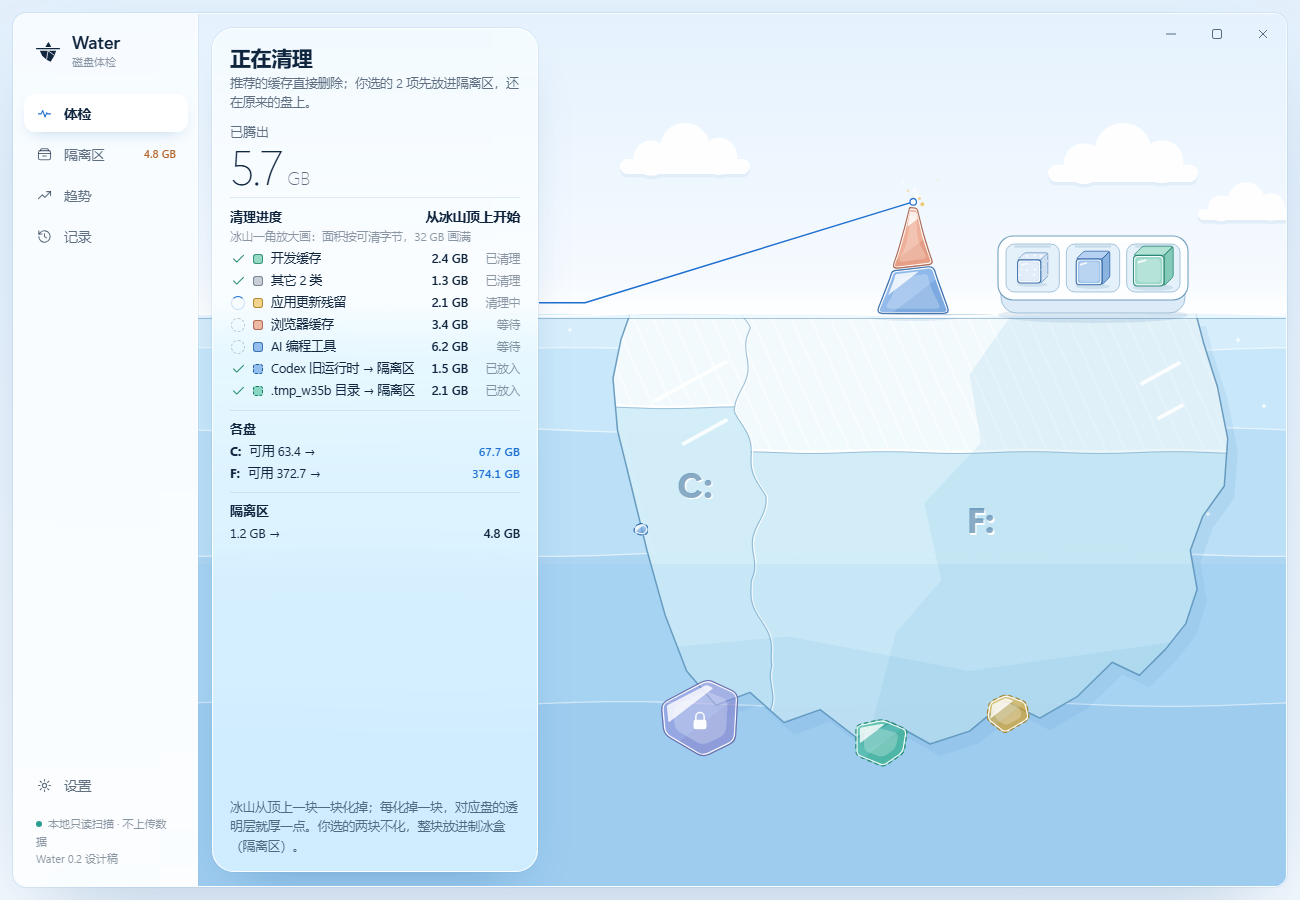
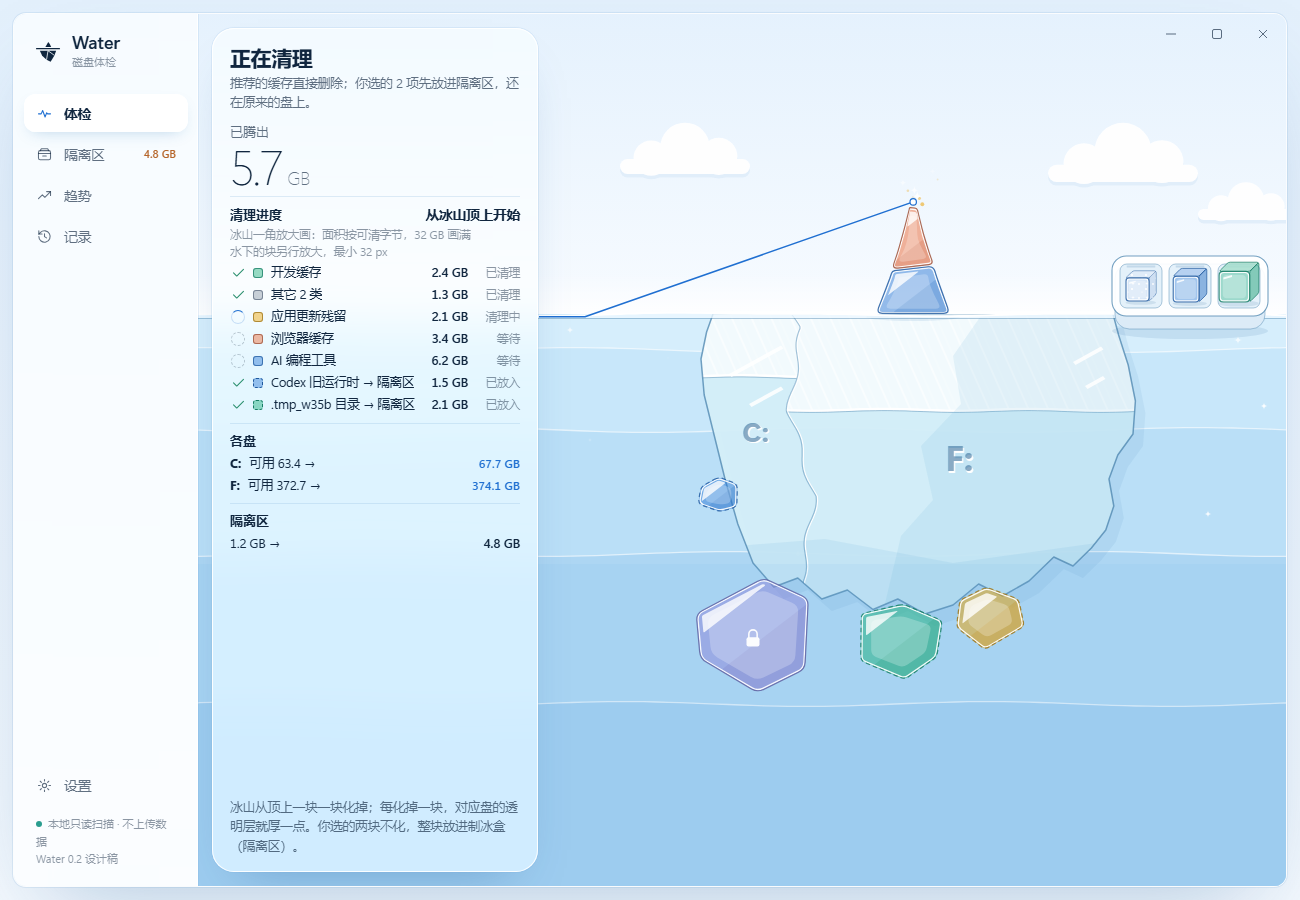
Shrink the underwater body and enlarge its blocks (prototype draft 5)
User asks: blocks below the waterline get a minimum size and are
enlarged; the default underwater iceberg is too big. Underwater blocks
now use side = clamp(sqrt(GB x 1100), 32, 96) px; the body is about
400 x 300 px (was 566 x 430), centred under the tip; a second muted
panel line explains the block scale.

Kept as history only: the user's next feedback (blocks must assemble
the iceberg with matching contours, labels appear on pieces as they
grow, real 2D anime style without mirror-like shine) leads to a
rebuilt picture layer in a new file.

diff --git a/docs/design/water-ui-v2/viz-skeuo.html b/docs/design/water-ui-v2/viz-skeuo.html
@@ -31,7 +31,7 @@
 .panel .hero small{font-size:19px;margin-left:6px}
 .ptop{display:flex;align-items:center;justify-content:space-between;margin-bottom:8px}
 .ptop .link{font-size:12.5px}
-.psec{display:flex;align-items:baseline;gap:8px;font-weight:600;font-size:13px;margin:8px 0 2px;padding-top:8px;border-top:1px solid var(--w-hairline);white-space:nowrap}
+.psec{display:flex;align-items:baseline;gap:8px;font-weight:600;font-size:13px;margin:7px 0 2px;padding-top:7px;border-top:1px solid var(--w-hairline);white-space:nowrap}
 .psec .pr{margin-left:auto;font-family:var(--w-font-display);font-size:13.5px;font-weight:600}
 .psec small{font-weight:400;color:var(--w-ink-3);font-size:11.5px;font-family:var(--w-font)}
 .prow{display:flex;align-items:center;gap:8px;min-height:22px;font-size:12.5px;border-radius:8px;padding:0 8px;margin:0 -8px;white-space:nowrap;transition:background .15s}
@@ -52,7 +52,7 @@
 .mono{font-family:var(--w-font-mono);font-size:12px}
 .pq{display:flex;align-items:center;gap:8px;font-size:12.5px;color:var(--w-ink-2);padding:7px 10px;border-radius:12px;background:rgba(255,255,255,.75);box-shadow:inset 0 0 0 1px rgba(181,101,42,.2);margin-bottom:14px;white-space:nowrap}
 .pq svg.i{color:var(--w-growth);width:15px;height:15px}.pq b{color:var(--w-ink)}.pq .link{margin-left:auto;font-size:12.5px}
-.drow{padding:2px 8px;margin:0 -8px;border-radius:9px;font-size:12.5px;transition:background .15s}
+.drow{padding:1px 8px;margin:0 -8px;border-radius:9px;font-size:12.5px;transition:background .15s}
 .drow .l1{display:flex;gap:7px;align-items:center}
 .drow .l1 i{width:7px;height:7px;border-radius:50%;background:var(--w-level-confirm);flex:none}
 .drow .l1 .nm{font-weight:600;overflow:hidden;text-overflow:ellipsis;white-space:nowrap;flex:1;min-width:0}
@@ -75,7 +75,7 @@
 .qrow .bt .link{font-size:12.5px}
 .qrow .dn{font-size:12px;color:var(--w-ink-2);margin-top:6px}
 .qrow .dn:empty{display:none}
-.pnote{font-size:11.5px;color:var(--w-ink-3);line-height:1.4;margin:0 0 3px;white-space:nowrap}
+.pnote{font-size:11.5px;color:var(--w-ink-3);line-height:1.35;margin:0 0 2px;white-space:nowrap}
 .pfoot{margin-top:auto;padding-top:12px}
 .pbtn{width:100%}
 .legend.wrap{flex-wrap:wrap;gap:6px 14px;margin-top:4px}
@@ -571,7 +571,7 @@ function show(id,o){o=o||{};const d=SC[id];if(!d)return;
 
 /* ---------- layout: every word lives in the panel on the left, the picture gets the rest ---------- */
 const PX0=14,PY0=14,PW0=326,PH0=844,PE=PX0+PW0;
-const GEO={x0:432,x1:998,yw:300,D:430};
+const GEO={x0:515,x1:915,yw:300,D:300};
 const fmtCap=v=>v>=1000?v.toFixed(1):String(v);
 const catOf=id=>CAT.find(c=>c.id===id);
 function panel(el){const p=H('div','panel ab',el);at(p,PX0,PY0,PW0,PH0);return p;}
@@ -584,6 +584,7 @@ function pqbar(p){const q=H('div','pq',p);icon('i-vault',q);const s=H('span',nul
 function heroP(p,eb,val,unit){H('div','eyebrow pe',p,eb);const h=H('div','hero',p);const n=H('span',null,h,val);H('small',null,h,unit==null?'GB':unit);return n;}
 function setIc(r,mode){if(r._mode===mode)return;r._mode=mode;clear(r._ic);if(mode==='run')H('span','spin',r._ic);else if(mode==='ok')icon('i-check',r._ic,'okc');else H('span','wait',r._ic);}
 const NOTE='冰山一角放大画：面积按可清字节，32 GB 画满';
+const NOTE2='水下的块另行放大，最小 32 px';
 function stage(el,geo,keys){const svg=S('svg',{class:'stage',viewBox:'0 0 1088 872'},el);
  const M=makeBerg(geo,keys);const st={svg,M,geo,yw:geo.yw,cx:(geo.x0+geo.x1)/2};
  const world=S('g',null,svg);st.world=world;
@@ -608,16 +609,29 @@ function tipBands(gbOf,o){o=o||{};const out=[];(o.joined||[]).forEach(j=>{if(j.g
  CAT.forEach(b=>{const v=gbOf(b);if(v>.001)out.push({gb:v,c:b.c,id:b.id,off:!!(o.off&&o.off[b.id]),melt:o.melt?o.melt[b.id]:0,hot:o.hot===b.id});});return out;}
 function tipHover(sc,R,onClick){R.gTip.addEventListener('mouseover',e=>{const b=e.target.closest('[data-band]');sc.hot=b?b.dataset.band:null;});R.gTip.addEventListener('mouseleave',()=>{sc.hot=null;});if(onClick)R.gTip.addEventListener('click',e=>{const b=e.target.closest('[data-band]');if(b)onClick(b.dataset.band);});}
 /* where the whole blocks stick to the iceberg: protected under C, C's review items on its flank, F's under F */
-function placeBlocks(R){const M=R.M,yw=R.yw,rows=M.rows,out={};
+/* Underwater blocks have their own, larger scale: side = clamp(sqrt(GB × 1100 px²), 32, 96). */
+const UW_K=1100,UW_MIN=32,UW_MAX=96;
+const uwSide=gb=>clamp(Math.sqrt(gb*UW_K),UW_MIN,UW_MAX);
+/* Where the whole blocks stick to the iceberg: protected under C, C's review items on C's left flank,
+   F's review items as a cluster under F (spilling onto F's right flank if the underside is too short). */
+function placeBlocks(R){const M=R.M,yw=R.yw,rows=M.rows,out={},GAP=14;
  const bodyBottom=x=>{for(let j=rows.length-1;j>=0;j--){if(rows[j].sp.some(q=>x>=q[0]&&x<=q[1]))return yw+j;}return null;};
  const leftEdge=y=>{const r=rows[M.row(y)];return r.sp.length?r.sp[0][0]:R.geo.x0;};
+ const rightEdge=y=>{const r=rows[M.row(y)];return r.sp.length?r.sp[r.sp.length-1][1]:R.geo.x1;};
  const under=p=>{const xs=[];for(let x=R.geo.x0-40;x<=R.geo.x1+60;x+=2){const by=bodyBottom(x);if(by==null)continue;const r=p.rw[M.row(by-1)];if(r.w>0&&x>=r.l-1&&x<=r.r+1)xs.push(x);}return xs;};
- const hang=(id,key,fx,gb,seed,n)=>{const p=M.byKey[key];if(!p)return;const u=under(p);if(!u.length)return;const x=u[Math.round(clamp(fx)*(u.length-1))];const sh=shapeOf(id,seed,n),s=Math.sqrt(gb*K_TIP);
-  const top=Math.min.apply(null,sh.poly.map(q=>q[1]))*s,cy=bodyBottom(x)-7-top;out[id]={x,y:cy,gb,sh,poly:blockPoly(sh,x,cy,gb*K_TIP)};};
- const flank=(id,fy,gb,seed)=>{const y=yw+R.geo.D*fy,sh=shapeOf(id,seed),s=Math.sqrt(gb*K_TIP);const right=Math.max.apply(null,sh.poly.map(q=>q[0]))*s,cx=leftEdge(y)+6-right;out[id]={x:cx,y,gb,sh,poly:blockPoly(sh,cx,y,gb*K_TIP)};};
- hang('core','C',.55,PROTECTED,909,6);
- flank('codex',.3,1.5,77);flank('kimi',.5,.3,78);
- hang('avd','F',.24,4.2,71);hang('apk','F',.52,2.6,72);hang('w35b','F',.8,2.1,73);
+ const dims=(id,seed,gb,n)=>{const sh=shapeOf(id,seed,n),sd=uwSide(gb),A=sd*sd;const xs=sh.poly.map(q=>q[0]*sd),ys=sh.poly.map(q=>q[1]*sd);return{id,sh,gb,A,sd,minx:Math.min.apply(null,xs),maxx:Math.max.apply(null,xs),miny:Math.min.apply(null,ys),maxy:Math.max.apply(null,ys)};};
+ const put=(d,x,y)=>{out[d.id]={x,y,gb:d.gb,sd:d.sd,sh:d.sh,poly:blockPoly(d.sh,x,y,d.A),minx:x+d.minx,maxx:x+d.maxx};};
+ const hangAt=(d,x)=>{let deep=-1;for(let xx=x+d.minx*.6;xx<=x+d.maxx*.6;xx+=2){const b=bodyBottom(xx);if(b!=null)deep=Math.max(deep,b);}if(deep<0)deep=yw+R.geo.D;put(d,x,deep-8-d.miny);};
+ const flankL=(d,fy)=>{const y=yw+R.geo.D*fy;put(d,leftEdge(y)+8-d.maxx,y);};
+ const flankR=(d,fy)=>{const y=yw+R.geo.D*fy;put(d,rightEdge(y)-8-d.minx,y);};
+ /* C: the protected block hangs under the middle of C's underside */
+ const uc=under(M.byKey.C),core=dims('core',909,PROTECTED,6);
+ const ccx=uc.length?(uc[0]+uc[uc.length-1])/2:R.geo.x0+40;hangAt(core,ccx);
+ flankL(dims('codex',77,1.5),.36);flankL(dims('kimi',78,.3),.6);
+ /* F: a neat cluster along F's underside, right of the protected block */
+ const pf=M.byKey.F;if(pf){const uf=under(pf),list=[dims('avd',71,4.2),dims('apk',72,2.6),dims('w35b',73,2.1)];
+  const lo=Math.max(uf[0]+6,out.core.maxx+GAP),hi=uf[uf.length-1]+4;let tot=0;list.forEach((d,i)=>tot+=d.maxx-d.minx+(i?GAP:0));
+  let x=Math.max(lo,(lo+hi)/2-tot/2),fl=0;list.forEach(d=>{const w=d.maxx-d.minx;if(x+w>hi){flankR(d,[.3,.62][fl++]||.75);return;}hangAt(d,x-d.minx);x+=w+GAP;});}
  return out;}
 function drawCoreAt(g,B,o){const cg=drawBlock(g,B.poly,VIOLET,Object.assign({r:7,alpha:.5},o||{}));drawLock(cg,B.x,B.y+2,13,'rgba(255,255,255,.95)');return cg;}
 
@@ -663,7 +677,7 @@ scene('scan',{nav:'check',dur:6000,
   psec(P,'正在看的位置');
   this.loc=[['C 盘常用位置','7 类'],['F 盘','整盘']].map(r=>{const row=prow(P,{ic:true,n:r[0]+'  ',s:''});H('span','mut',row._n,r[1]);return row;});
   const stop=H('button','btn btn-glass btn-sm',P,'停止');stop.style.cssText='align-self:flex-start;margin-top:10px';
-  this.secF=psec(P,'已找到','0.0 GB');H('div','pnote',P,NOTE);
+  this.secF=psec(P,'已找到','0.0 GB');H('div','pnote',P,NOTE);H('div','pnote',P,NOTE2);
   this.crow={};CAT.slice().reverse().forEach(b=>{this.crow[b.id]=prow(P,{sw:b.c,n:b.n,s:'—'});});
   this.rrev=prow(P,{sw:'#9AA7B6',review:true,n:'需要你看',s:'—'});this.rpro=prow(P,{sw:VIOLET,n:'受保护',s:'—'});
   this.files=H('div','pcap',P,'');this.files.style.marginTop='8px';
@@ -715,7 +729,7 @@ scene('results',{nav:'check',dur:0,
   heroP(P,'可以放心清理','15.4');
   const mk=H('div','pcap',P);mk.append('缓存 12.1 GB · 旧版本 3.3 GB · ');H('span',null,mk,'比上次多 2.1 GB').style.color='var(--w-growth)';
   this.btn=H('button','btn btn-primary pbtn',P,'清理推荐项 15.4 GB');this.btn.style.marginTop='12px';this.btn.onclick=()=>show('clean',{play:true});
-  this.s1=psec(P,'水面以上 · 推荐清理','15.4 GB');H('div','pnote',P,NOTE);
+  this.s1=psec(P,'水面以上 · 推荐清理','15.4 GB');H('div','pnote',P,NOTE);H('div','pnote',P,NOTE2);
   CAT.slice().reverse().forEach(b=>{const r=prow(P,{sw:b.c,n:b.n,s:f1(b.gb)+' GB'});r.classList.add('click');r.title='点一下：这次不清';r.onclick=()=>{st.off[b.id]=!st.off[b.id];self.sync();};this.rows[b.id]=r;hoverRow(this,r,b.id);});
   this.skipCap=H('div','pcap',P,'');
   psec(P,'水面下 · 需要你看','5 项 · 10.7 GB');
@@ -739,7 +753,7 @@ scene('results',{nav:'check',dur:0,
  update(t,amb){const R=this.R,st=this.st,yw=R.yw,n=NOW();R.update(amb);clear(R.gLead);
   const joined=[],leads=[];
   CARDS.forEach(c=>{const o=this.ch[c.id],b=this.pos[c.id],d=st.dec[c.id];if(!b)return;let dx=0,dy=0,op=1,fr=0,vis=true,sc=1;
-   if(d&&d.mode==='clean'){const dt=RM?1e9:n-d.t,p=easeIO(dt/900);dx=(R.cx-b.x)*p;dy=(yw-14-b.y)*p;sc=1-.15*p;if(dt>900)vis=false;joined.push({id:c.id,cat:c.cat,gb:c.gb*ease((dt-860)/380)});}
+   if(d&&d.mode==='clean'){const dt=RM?1e9:n-d.t,p=easeIO(dt/900);dx=(R.cx-b.x)*p;dy=(yw-14-b.y)*p;sc=lerp(1,Math.sqrt(c.gb*K_TIP)/b.sd,p);if(dt>900)vis=false;joined.push({id:c.id,cat:c.cat,gb:c.gb*ease((dt-860)/380)});}
    if(d&&d.mode==='keep'){const dt=RM?1e9:n-d.t,p=ease(dt/900);dy=26*p;fr=p;op=1-.25*p;}
    clear(o.g);const poly=b.poly.map(q=>[b.x+(q[0]-b.x)*sc+dx,b.y+(q[1]-b.y)*sc+dy]);
    if(vis){drawBlock(o.g,poly,catOf(c.cat).c,{review:true,frost:fr,op,hot:this.hot===c.id});leads.push([b.x+dx,b.y+dy,c.id]);}});
@@ -755,7 +769,8 @@ const CL_ORDER=[['dv',600,1100],['ot',1600,1000],['up',2500,1000],['br',3400,110
 const SKIP={br:.4};
 const CL_CHOSEN=[{id:'w35b',cat:'dv',gb:2.1,well:2},{id:'codex',cat:'ai',gb:1.5,well:1}];
 function cleanState(t){const g={},melt={},p={};let fC=0,fF=0;CL_ORDER.forEach(o=>{const b=catOf(o[0]);const keep=SKIP[b.id]||0,net=b.gb-keep;const q=ease(seg(t,o[1],o[1]+o[2]));const gone=net*q;g[b.id]=b.gb-gone;melt[b.id]=q>0&&q<1?q:0;p[b.id]=q;fC+=gone*((b.C-keep)/net);fF+=gone*(b.F/net);});return{g,melt,p,fC,fF};}
-function trayOnDeck(R){const w=190,h=64,x=R.geo.x1-w-8,y=R.yw-h-14;return drawTray(R.gTop,x,y,w,h,3);}
+/* the ice-cube tray floats on the water to the right of the iceberg */
+function trayOnDeck(R){const w=156,h=60,x=1070-w,y=R.yw-h+2;return drawTray(R.gTop,x,y,w,h,3);}
 scene('clean',{nav:'check',dur:6000,
  build(el){this.rows={};const R=this.R=stage(el,GEO,'scope');bodyLetters(R.gText,R.B);this.pos=placeBlocks(R);drawCoreAt(R.gUnder,this.pos.core);
   CARDS.forEach(c=>{if(c.id==='codex'||c.id==='w35b')return;drawBlock(R.gUnder,this.pos[c.id].poly,catOf(c.cat).c,{review:true});});
@@ -764,7 +779,7 @@ scene('clean',{nav:'check',dur:6000,
   const r0=drawTip(S('g',{opacity:0},R.gTop),R.cx,R.yw,tipBands(b=>b.gb,{joined:CL_CHOSEN}));this.chAt={};r0.bands.forEach(bb=>{if(bb)this.chAt[bb.b.id]=bb.c;});
   const P=panel(el);ptitle(P,'正在清理','推荐的缓存直接删除；你选的 2 项先放进隔离区，还在原来的盘上。');
   this.num=heroP(P,'已腾出','0.0');
-  psec(P,'清理进度','从冰山顶上开始');H('div','pnote',P,NOTE);
+  psec(P,'清理进度','从冰山顶上开始');H('div','pnote',P,NOTE);H('div','pnote',P,NOTE2);
   CL_ORDER.forEach(o=>{const b=catOf(o[0]);this.rows[b.id]=prow(P,{ic:true,sw:b.c,n:b.n,s:f1(b.gb)+' GB',x:''});});
   this.rows.codex=prow(P,{ic:true,sw:catOf('ai').c,review:true,n:'Codex 旧运行时 → 隔离区',s:'1.5 GB',x:''});
   this.rows.w35b=prow(P,{ic:true,sw:catOf('dv').c,review:true,n:'.tmp_w35b 目录 → 隔离区',s:'2.1 GB',x:''});
@@ -804,7 +819,7 @@ scene('done',{nav:'check',dur:2600,
   const l1=H('div','pcap',P);l1.append('另有 ');H('b',null,l1,'3.6 GB');l1.append(' 在隔离区，确认没问题后再永久删除。');
   psec(P,'各盘','透明层变厚了');
   [['C','63.4','77.0','+13.6'],['F','372.7','374.1','+1.4']].forEach(d=>{const r=drvRow(P,d[0],'可用 '+d[1]+' → '+d[2]+' GB');r._s.textContent=d[3];r._s.classList.add('okt');this.rows['p'+d[0]]=r;});
-  psec(P,'还在的');
+  psec(P,'还在的');H('div','pnote',P,NOTE2);
   this.rows.br=prow(P,{sw:catOf('br').c,n:'浏览器缓存 · Chrome 开着，跳过了',s:'0.4 GB'});
   this.rows.tray=prow(P,{sw:'#8FCBEA',n:'隔离区（这次放进 3.6 GB）',s:'4.8 GB'});
   this.left.forEach(id=>{const c=CARDS.find(x=>x.id===id);this.rows[id]=prow(P,{sw:catOf(c.cat).c,review:true,n:c.n+' · 没决定',s:f1(c.gb)+' GB'});});
@@ -913,7 +928,7 @@ scene('trends',{nav:'trends',dur:0,
 /* ---------- 8. space: F's used ice as translucent stones, area ∝ size ---------- */
 const OWN={项目:'#2a78d6',游戏:'#eb6834',资料:'#1baf7a',系统与程序:'#6250d6',其它:'#8A96A6'};
 const STONES=[['denglou',319,'项目'],['SteamLibrary',194,'游戏'],['Riot Games',53,'游戏'],['cdisk-cache',31.6,'资料'],['smaltalk',28.4,'项目'],['其它',13.4,'其它'],['Mirasim-A',12.4,'资料']];
-const GEO_S={x0:400,x1:1030,yw:236,D:590};
+const GEO_S={x0:470,x1:960,yw:250,D:420};
 scene('space',{nav:'check',dur:0,
  build(el){this.rows={};this.hot=null;
   const R=this.R=stage(el,GEO_S,'whole'),M=R.M,B=R.B;['C','D','E'].forEach(k=>B.setDim(k,true));B.setHL('F',true);
